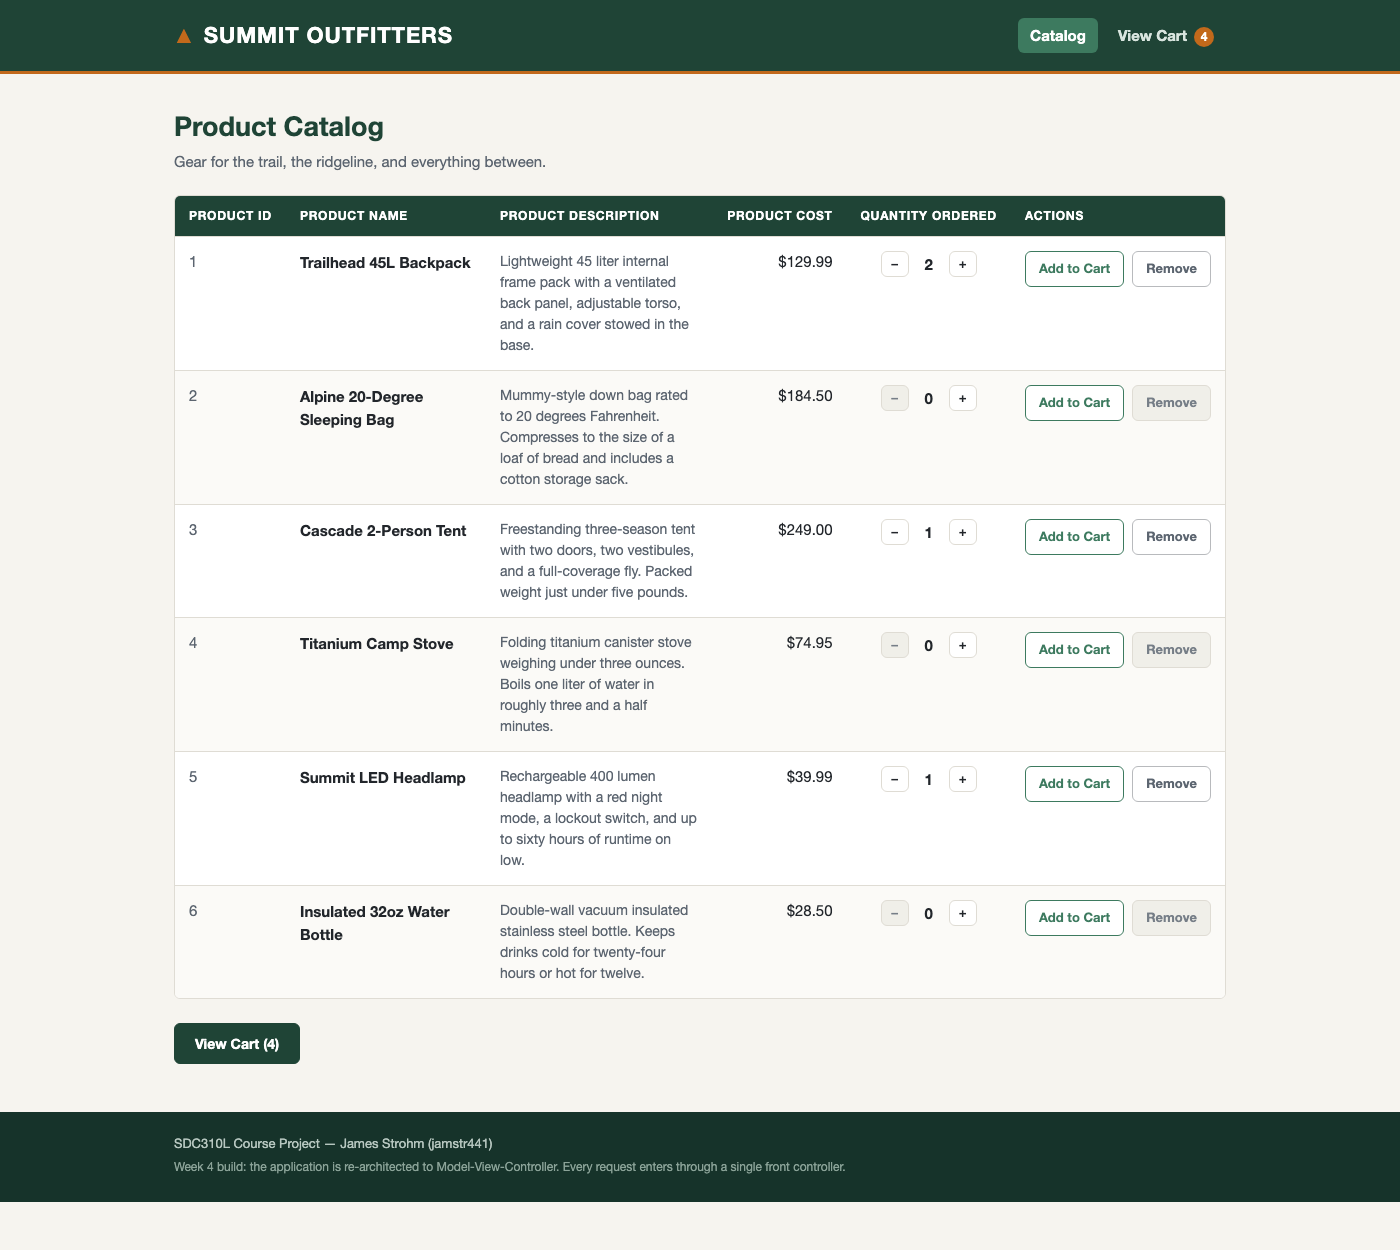
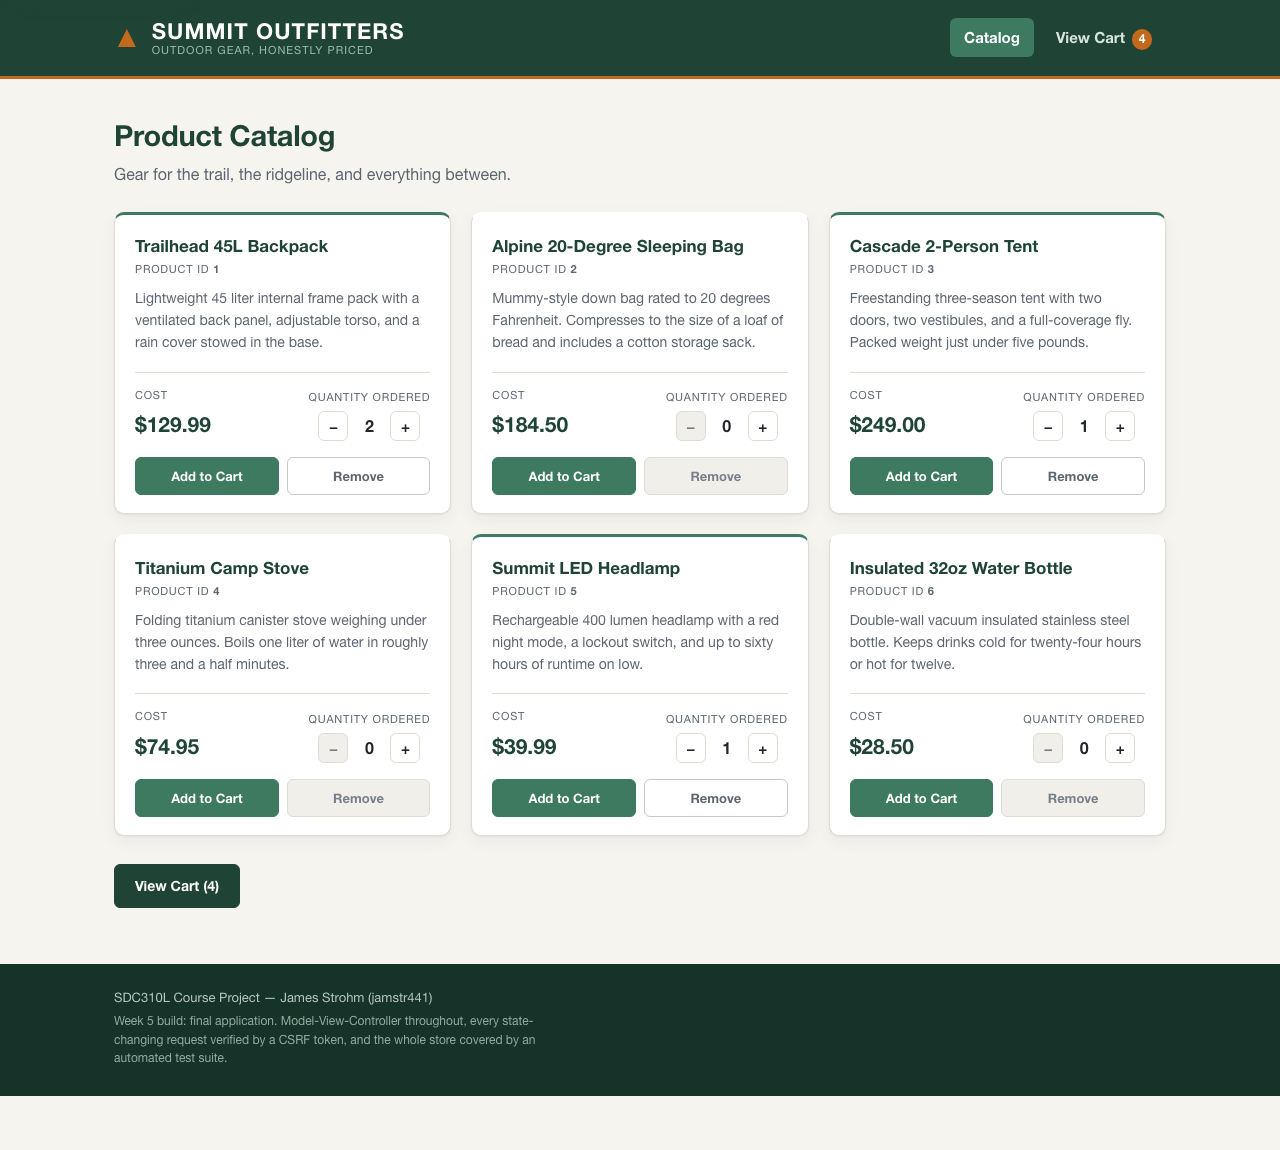
Week 5: stop the cart table clipping its Actions column
The two-column cart layout narrowed the table from the full page width
to roughly 700px, but the column widths were still the ones tuned for
the wide table. They summed past the space available and the scroll
container clipped the Remove buttons off the right edge.

Two causes, both fixed. The fixed widths were too generous, so they are
retuned and the product name column is no longer fixed at all — it
absorbs whatever slack is left. And the headers were nowrap, which set
each column's minimum to the width of its full header text: "Quantity
Ordered" on one line is wider than the control beneath it. They wrap
now, costing one header line.

Caught by looking at the rendered screenshot rather than by reading the
CSS, which is the only way this class of defect shows up.

Also verified the narrow layout while here: at Chrome's 500px minimum
viewport the grid collapses to one column with document scrollWidth
equal to the viewport, so nothing overflows sideways. Screenshots
refreshed from the live render, narrow one added.

Claude-Session: https://claude.ai/code/session_01H6nsTeiu9gKpXAcxNDLJhA

diff --git a/css/style.css b/css/style.css
@@ -330,8 +330,8 @@ main.wrap {
    visible without scrolling past a long cart. Below 900px it stacks. */
 .cart-layout {
     display: grid;
-    grid-template-columns: minmax(0, 1fr) 320px;
-    gap: 24px;
+    grid-template-columns: minmax(0, 1fr) 300px;
+    gap: 20px;
     align-items: start;
 }
 
@@ -356,18 +356,24 @@ main.wrap {
     border-collapse: collapse;
 }
 
+/* The headers wrap. They were nowrap, which set each column's minimum to the
+   width of its full header text — "Quantity Ordered" alone is wider than the
+   control beneath it — and that pushed the table past the space the Week 5
+   two-column layout gives it, clipping the Remove buttons off the right edge
+   of the scroll container. Wrapping costs one extra header line and lets the
+   columns size to their data instead. */
 .cart-table th {
     background: var(--forest);
     color: var(--paper);
     font-size: 11px;
-    letter-spacing: 0.07em;
+    letter-spacing: 0.06em;
     text-transform: uppercase;
-    padding: 12px 14px;
-    white-space: nowrap;
+    padding: 12px;
+    vertical-align: bottom;
 }
 
 .cart-table td {
-    padding: 15px 14px;
+    padding: 15px 12px;
     border-top: 1px solid var(--line);
     vertical-align: middle;
 }
@@ -385,12 +391,21 @@ main.wrap {
 
 .cart-table .col-qty { text-align: center; }
 
-.col-id    { width: 90px;  color: var(--ink-soft); font-variant-numeric: tabular-nums; }
-.col-name  { width: 200px; font-weight: 600; color: var(--forest); }
-.col-cost  { width: 110px; font-variant-numeric: tabular-nums; }
-.col-total { width: 110px; font-variant-numeric: tabular-nums; font-weight: 700; }
-.col-qty   { width: 140px; }
-.cart-table .col-actions { width: 110px; white-space: nowrap; }
+/* The fixed widths have to sum to less than the space the table actually
+   gets. Beside the 320px summary that is roughly 700px, not the full page
+   width the cart had before Week 5 — the first draft of this layout kept the
+   old widths, overflowed by about 60px, and left the Remove buttons clipped
+   at the edge of the scroll container. The name column is deliberately not
+   fixed, so it absorbs whatever slack is left over. */
+.col-id    { width: 56px;  color: var(--ink-soft); font-variant-numeric: tabular-nums; }
+.col-name  { min-width: 150px; font-weight: 600; color: var(--forest); }
+.col-cost  { width: 88px;  font-variant-numeric: tabular-nums; }
+.col-total { width: 92px;  font-variant-numeric: tabular-nums; font-weight: 700; }
+.col-qty   { width: 128px; }
+.cart-table .col-qty     { min-width: 128px; }
+.cart-table .col-actions { width: 110px; }
+.cart-table td.col-actions,
+.cart-table td.col-qty { white-space: nowrap; }
 
 /* --- Buttons and controls ----------------------------------------------- */
 
@@ -590,7 +605,7 @@ main.wrap {
 
 /* --- Narrow screens ----------------------------------------------------- */
 
-@media (max-width: 900px) {
+@media (max-width: 1000px) {
     .cart-layout { grid-template-columns: 1fr; }
     .order-summary { position: static; max-width: 420px; margin-left: auto; }
 }
